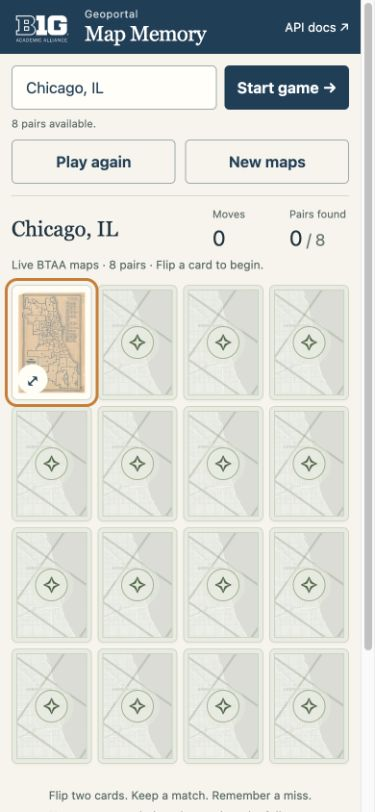
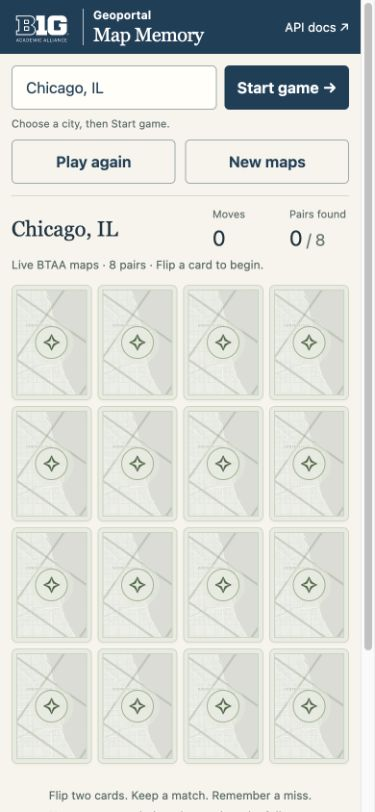
Refine Geoportal lockup with vertical divider

diff --git a/apps/map-memory/styles.css b/apps/map-memory/styles.css
@@ -67,7 +67,7 @@ button:focus-visible,a:focus-visible,input:focus-visible {
 .brand {
   display:flex;
   align-items:center;
-  gap:12px;
+  gap:18px;
   font-weight:700;
   letter-spacing:.03em;
 }
@@ -80,20 +80,24 @@ button:focus-visible,a:focus-visible,input:focus-visible {
 .brand-wordmark {
   display:flex;
   flex-direction:column;
-  gap:3px;
+  justify-content:center;
+  min-height:44px;
+  padding-left:18px;
+  border-left:1px solid #adc5cf;
+  gap:2px;
   font-size:18px;
   line-height:1.15;
   letter-spacing:0;
 }
 .brand-caption {
-  font-size:12px;
-  font-weight:400;
-  color:#d0dce0;
-  letter-spacing:.04em;
+  font-size:15px;
+  font-weight:650;
+  color:#fff;
+  letter-spacing:.01em;
 }
 
 h1 {
-  font:28px/1.1 Georgia,serif;
+  font:26px/1.1 Georgia,serif;
   letter-spacing:-.025em;
   margin:0;
   white-space:nowrap;
@@ -477,17 +481,21 @@ footer {
     margin:0 16px;
     flex-direction:column;
   }
+  .brand {
+    gap:10px;
+  }
   .brand-logo {
     width:64px;
   }
   .brand-wordmark {
-    gap:2px;
+    min-height:36px;
+    padding-left:10px;
   }
   .brand-caption {
-    font-size:11px;
+    font-size:12px;
   }
   h1 {
-    font-size:22px;
+    font-size:20px;
   }
   h2 {
     font-size:22px;

diff --git a/apps/map-memory/README.md b/apps/map-memory/README.md
@@ -125,7 +125,8 @@ same full-map lightbox; title links still lead to the Geoportal.
 The header uses the official white [BTAA logo](https://geo.btaa.org/btaa-logo.png)
 from the Geoportal, bundled locally in `assets/btaa-logo.png` with its original
 transparency and aspect ratio. The logo sits to the left of “Geoportal” above
-“Map Memory”; the lockup links back to the example-app gallery. The footer credits
+“Map Memory”, separated by a pale vertical rule with balanced spacing;
+the lockup links back to the example-app gallery. The footer credits
 the BTAA Geospatial API and links to its documentation.
 
 The title lives in the compact header so the game starts directly beneath it.
